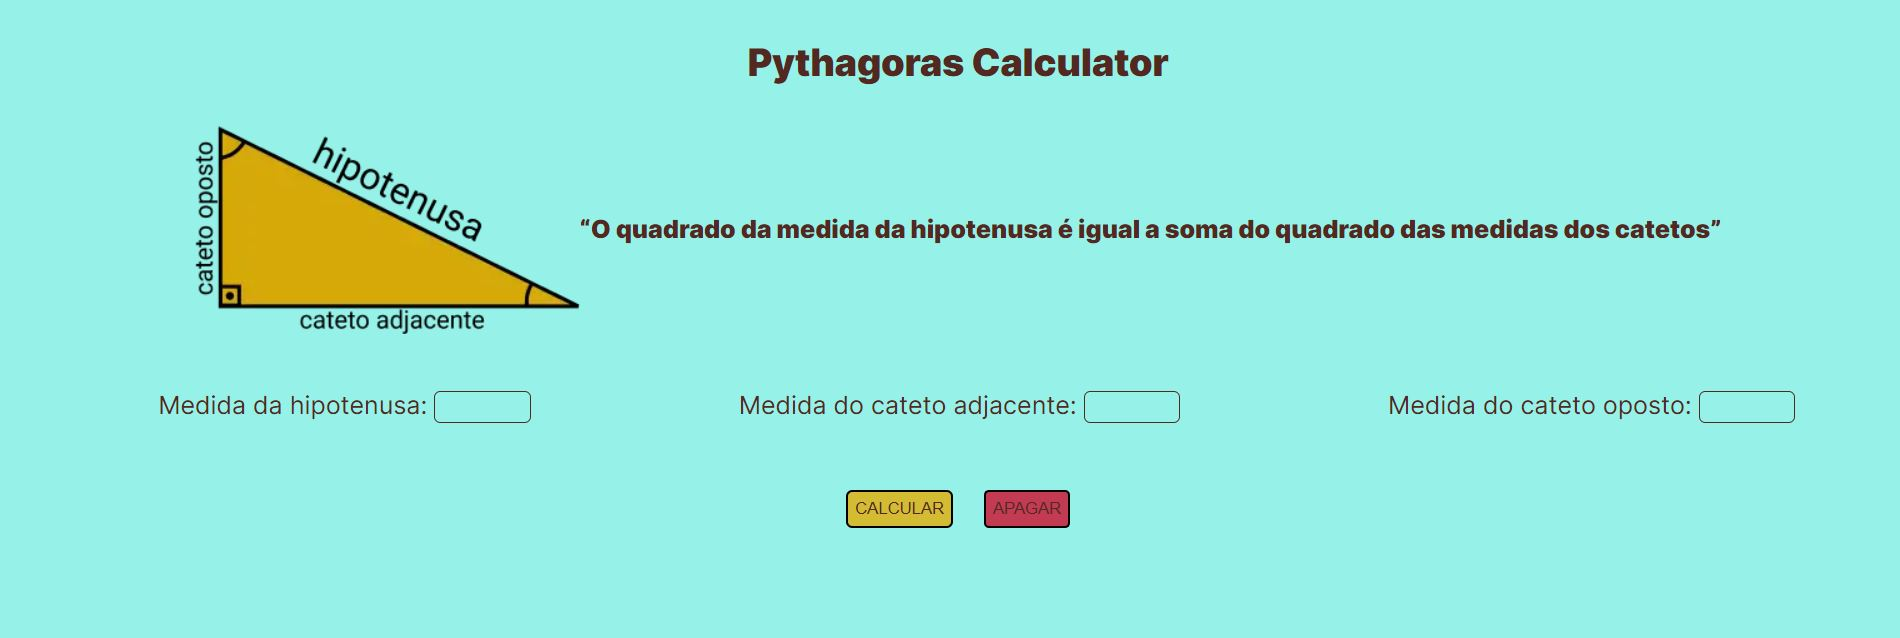
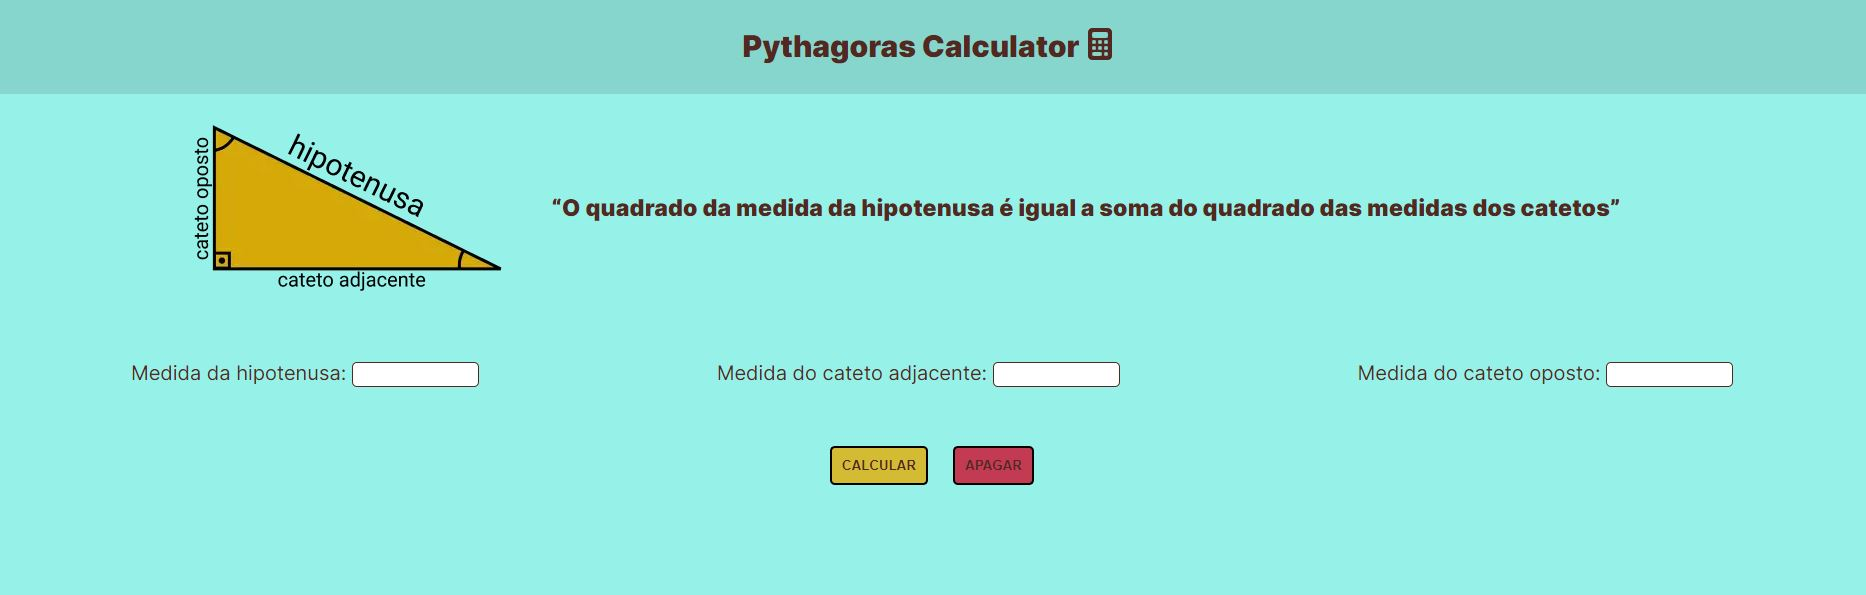
Ajustes

diff --git a/index.html b/index.html
@@ -1,5 +1,5 @@
 <!DOCTYPE html>
-<html lang="en"> 
+<html lang="pt-br"> 
     <head>
         <link href="https://fonts.googleapis.com/css2?family=Inter:wght@400;900&display=swap" rel="stylesheet">
         <meta charset="UTF-8">
@@ -9,16 +9,14 @@
         <link rel="stylesheet" href="styles.css">
     </head>
     <body>
-        <header>
-            <div class="container">
-                <h2>Pythagoras Calculator</h2>
-            </div>
+        <header id="cabecalho">
+            <h2>Pythagoras Calculator</h2>
+            <svg xmlns="http://www.w3.org/2000/svg" width="42" height="32" fill="currentColor" viewBox="0 0 384 512"><!--! Font Awesome Pro 6.2.0 by @fontawesome - https://fontawesome.com License - https://fontawesome.com/license (Commercial License) Copyright 2022 Fonticons, Inc. --><path d="M64 0C28.7 0 0 28.7 0 64V448c0 35.3 28.7 64 64 64H320c35.3 0 64-28.7 64-64V64c0-35.3-28.7-64-64-64H64zM96 64H288c17.7 0 32 14.3 32 32v32c0 17.7-14.3 32-32 32H96c-17.7 0-32-14.3-32-32V96c0-17.7 14.3-32 32-32zM64 224c0-17.7 14.3-32 32-32s32 14.3 32 32s-14.3 32-32 32s-32-14.3-32-32zm32 64c17.7 0 32 14.3 32 32s-14.3 32-32 32s-32-14.3-32-32s14.3-32 32-32zM64 416c0-17.7 14.3-32 32-32h96c17.7 0 32 14.3 32 32s-14.3 32-32 32H96c-17.7 0-32-14.3-32-32zM192 192c17.7 0 32 14.3 32 32s-14.3 32-32 32s-32-14.3-32-32s14.3-32 32-32zM160 320c0-17.7 14.3-32 32-32s32 14.3 32 32s-14.3 32-32 32s-32-14.3-32-32zM288 192c17.7 0 32 14.3 32 32s-14.3 32-32 32s-32-14.3-32-32s14.3-32 32-32zM256 320c0-17.7 14.3-32 32-32s32 14.3 32 32s-14.3 32-32 32s-32-14.3-32-32zm32 64c17.7 0 32 14.3 32 32s-14.3 32-32 32s-32-14.3-32-32s14.3-32 32-32z"/></svg>
         </header>
         <main>
-            <section>
-                <div class="img-triangulo">
+                <div class="triangulo">
                     <img src="img/triangulo-retangulo.png" alt="Imagem do triangulo triangulo-retangulo">
-                    <h4>“O quadrado da medida da hipotenusa é igual a soma do quadrado das medidas dos catetos”</h4> 
+                    <h3>“O quadrado da medida da hipotenusa é igual a soma do quadrado das medidas dos catetos”</h3> 
                 </div>
                 <div class="medidas-lados">
                     <div>
@@ -39,12 +37,22 @@
                     <button id="btn-calcular" onclick="calculaTeorema()">CALCULAR</button>
                     <button id="btn-apagar" onclick="limpaCampos()">APAGAR</button>
                 </div>
-                <div class="resolucao">
+                <div style="display: none;" id="resultado">
                     <h3 id="retorno"></h3>
                     <h3 id="resposta"></h3>                   
-                </div>
-            </section>           
-        </main>
+                </div>        
+        </main> 
+        <footer> 
+            <div>
+                <p>&copy; Criado por Kênia Cunha</p>
+                <a  target="_blank"
+                    href="https://www.linkedin.com/in/kênia-cunha-8584a1111/">
+                    <svg xmlns="http://www.w3.org/2000/svg" width="28" height="28" fill="currentColor" class="bi bi-linkedin" viewBox="0 0 16 16"> 
+                        <path d="M0 1.146C0 .513.526 0 1.175 0h13.65C15.474 0 16 .513 16 1.146v13.708c0 .633-.526 1.146-1.175 1.146H1.175C.526 16 0 15.487 0 14.854V1.146zm4.943 12.248V6.169H2.542v7.225h2.401zm-1.2-8.212c.837 0 1.358-.554 1.358-1.248-.015-.709-.52-1.248-1.342-1.248-.822 0-1.359.54-1.359 1.248 0 .694.521 1.248 1.327 1.248h.016zm4.908 8.212V9.359c0-.216.016-.432.08-.586.173-.431.568-.878 1.232-.878.869 0 1.216.662 1.216 1.634v3.865h2.401V9.25c0-2.22-1.184-3.252-2.764-3.252-1.274 0-1.845.7-2.165 1.193v.025h-.016a5.54 5.54 0 0 1 .016-.025V6.169h-2.4c.03.678 0 7.225 0 7.225h2.4z"/> 
+                    </svg> 
+                </a>   
+            </div>
+        </footer>     
        <script src="scripts.js"></script>
     </body>
 </html>

diff --git a/styles.css b/styles.css
@@ -1,36 +1,48 @@
-html {
-    height: 100%;
-}
 *{
-    background-color: #96f2e9;
     color: #532820;
     margin: 0;
     padding: 0;
     box-sizing: border-box;
 }
 
-body{        
+body{ 
+    background: #96f2e9;         
+    font-size: 20px; 
     font-family: 'Inter', sans-serif;
-    font-style: normal;    
-    font-size: 20px;
+    font-style: normal;
+    width: 100%;
+    gap: 10px;    
 }
-header {
-    margin: 32px ;
-    text-align: center;      
+
+#cabecalho{
+    text-align: center;  
+    display: flex;
+    flex-direction: row;  
+    justify-content: center;  
+    background-color:#87d6ce;
+    padding: 30px;
 }
-.img-triangulo{
+
+.triangulo img{
+    width: auto;
+    height: auto;
+}
+.triangulo h3{
+    transition: .4s ease all; 
+    padding:50px;
+}
+.triangulo{    
+    margin: 20px;
+    padding: 10px;
     display: flex;
     flex-direction : row;
-    justify-content:center;
+    justify-content: center;
     align-items: center;
-    transition: .3s ease all;
- 
 }
 .medidas-lados{
     width: 100%;
     height: auto;
-    padding: 30px;
-    margin: 15px;
+    padding: 40px;
     display: flex;
     flex-direction: row;
     justify-content: space-around;    
@@ -38,17 +50,22 @@ header {
 
 .medidas-lados input{
     height: 100%;
-    border-radius: 5px;
+    border-radius: 5px;    
     border: 1px solid;
     font-size: 18px;
+    padding-left: 50px;
+    
 }
 
 #btn-calcular:hover{
-    opacity: 0.5;
+    opacity: 0.5;    
+    transform: scale(1.1);
+    
 }
 
 #btn-apagar:hover{
     opacity: 0.5;
+    transform: scale(1.1);
 }
 .botao{
     margin: 10px;
@@ -58,39 +75,65 @@ header {
     gap: 25px;
     font-size: 20px;
     padding: 10px 10px;
-    font-weight:500;
-    cursor: pointer;  
+    margin-bottom:50px;
     
+      
 }
 #btn-calcular{
     background: #d3bb33;
     border-radius: 5px;
-    font-weight: 300;
-    padding: 5px;
+    font-weight: bold;  
+    padding: 10px;
+
 }
 #btn-apagar{
     background: #c23b53;;
-    border-radius: 4px;
-    font-weight: 300;
-    padding: 5px;    
+    border-radius: 5px;
+    font-weight: bold;  
+    padding: 10px;    
+}
+
+
+#resultado{
+    display: flex;
+    align-items: center;
+    justify-content: center;  
+    flex-direction: column;  
+    width: 40%;
+    border-radius: 5px;
+    border-top: 8px solid #c23b53; 
+    border-left: 8px solid #c23b53; 
+    border-right: 5px solid ; 
+    border-bottom: 5px solid; 
+    padding: 10px 20px;
+    margin: 0 auto;
 }
 
 #retorno{
     padding: 10px;
-    font-size: 20px        
+    font-size: 20px;      
 }
 
 #resposta{
     padding: 10px;
-    font-size: 20px
+    font-size: 20px;
+   
+}
+
+footer{
+    width: 100%;
+    position: fixed;
+    bottom:0;
+    left:0;
+    background-color:#87d6ce;
+    max-width: auto;
+    margin: auto;
+    padding: 10px;
+    text-align: center;  
+    display: flex;
+    flex-direction: row;  
+    justify-content: center;
+    
 }
 
 
-@media screen and (min-width: 768px) {
-    html {
-        display: flex;
-        flex-direction: column;
-    }
-}
-
-  

diff --git a/scripts.js b/scripts.js
@@ -1,12 +1,14 @@
 function calculaTeorema(){
-
+    document.getElementById("resultado").style.display = 'flex';
     const catetoA = document.getElementById("catetoA").value;
     const catetoB = document.getElementById("catetoB").value;
     const hipotenusa = document.getElementById("hipotenusa").value;       
 
     let somaQuadradoCatetos = (catetoA*catetoA) + (catetoB*catetoB);
+
     if(hipotenusa!="" && catetoA!="" && catetoB!=""){
-        if((hipotenusa*hipotenusa) === somaQuadradoCatetos){
+
+        if((hipotenusa*hipotenusa) === somaQuadradoCatetos){            
             document.getElementById("retorno").innerHTML = "É um triângulo retângulo!";
             document.getElementById("resposta").innerHTML = "Resolução: <br>" + hipotenusa + "² = " +catetoA + "² + " + catetoB + "² <br>" + hipotenusa*hipotenusa + " = " + (catetoA*catetoA) + " + " + (catetoB*catetoB) + "<br>" + hipotenusa*hipotenusa + " = " + somaQuadradoCatetos;
         }else{
@@ -25,5 +27,5 @@ function limpaCampos(){
     document.getElementById("hipotenusa").value = ""; 
     document.getElementById("retorno").innerHTML = "";
     document.getElementById("resposta").innerHTML = "";
+    document.getElementById("resultado").style.display = 'none';
 }
-

diff --git a/README.md b/README.md
@@ -13,5 +13,4 @@
 - Javascript
 
 ## ✨ Contato
-
 keniacunha100@gmail.com
